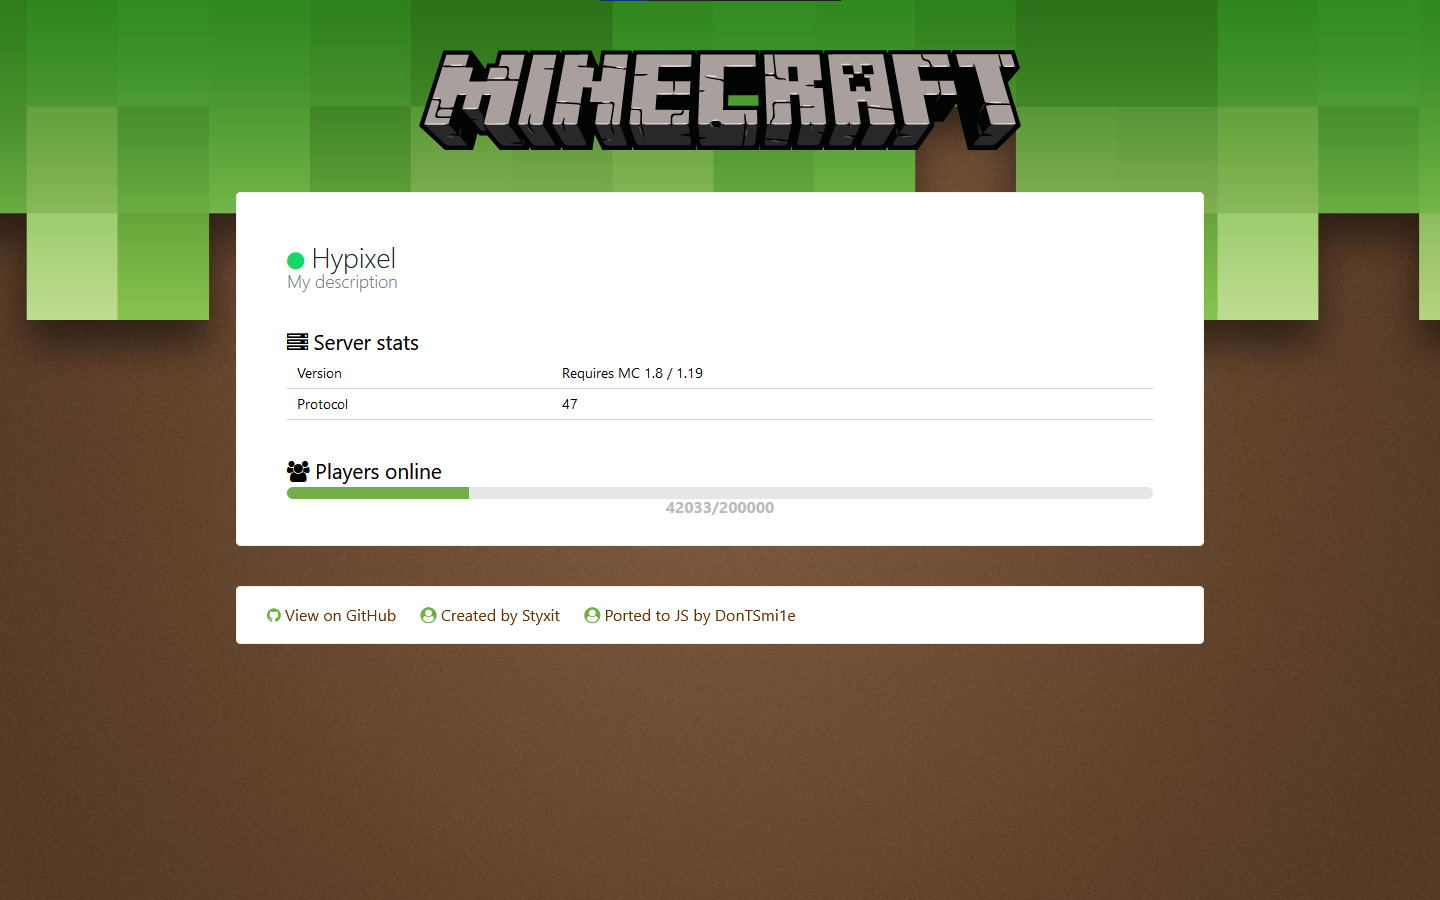
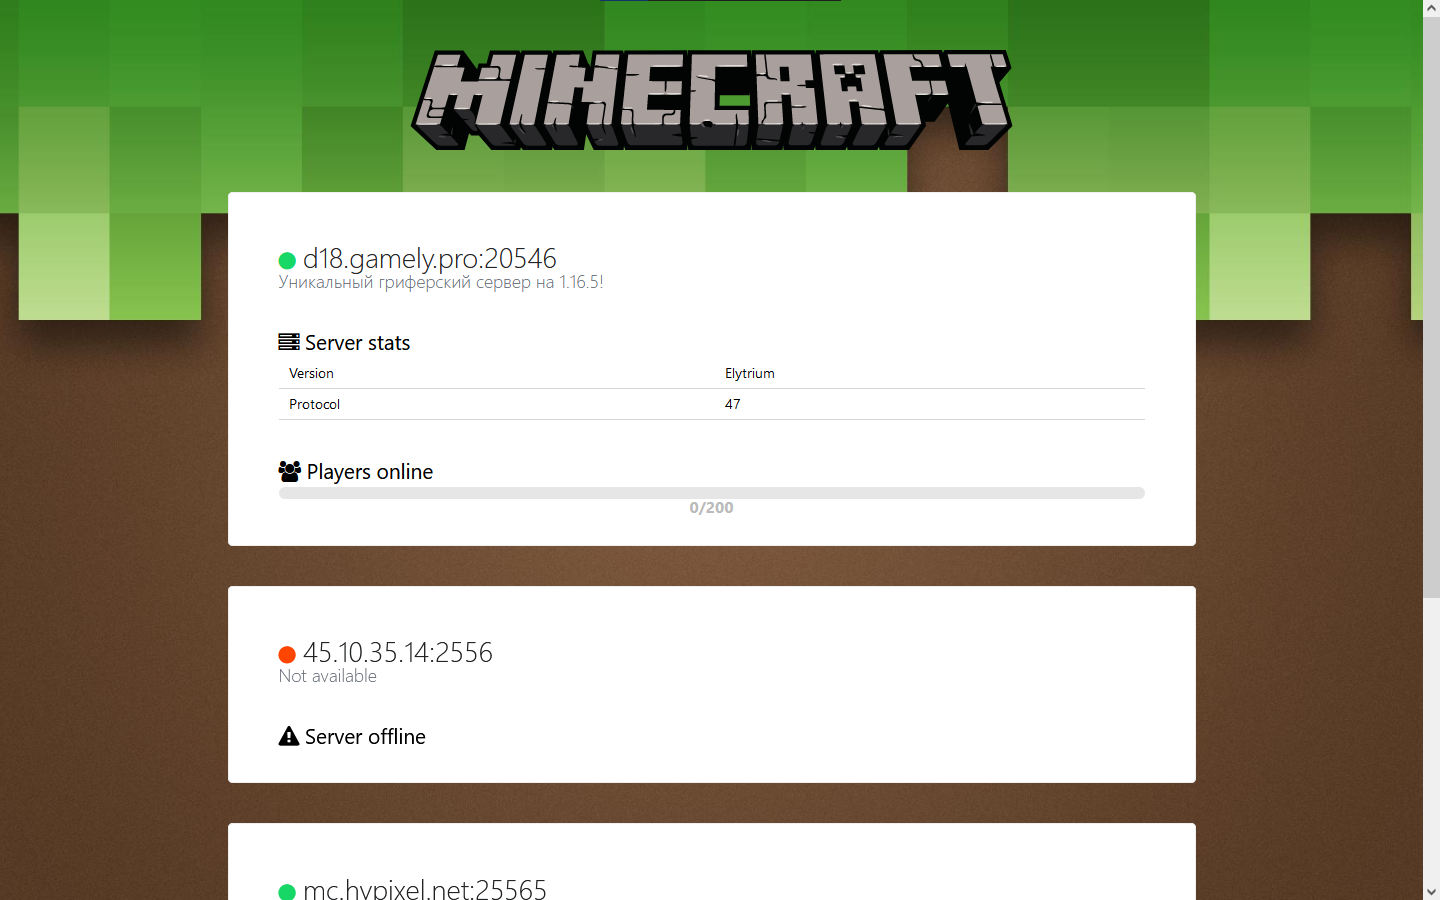
important update

diff --git a/fetch.js b/fetch.js
@@ -1,76 +1,84 @@
-function insertData(id, json, name, description)
+function insertData(id, json)
 {
 	if (arguments[1]['online'] == true) {
 		const template_online = `
-	<div class="status-header">
-		<h1 class="title"><i class="status online fa fa-circle"></i> ${arguments[2]}</h1>
-		<h2 class="subtitle">${arguments[3]}</h2>
-	</div>
-
-	<div class="status-list">
-		<div class="label"><i class="fa fa-server"></i> Server stats</div>
-		<table class="table">
-			<tbody>
-			<tr>
-				<td>Version</td>
-				<td>${arguments[1]['version']['name_clean']}</td>
-			</tr>
-			<tr>
-				<td>Protocol</td>
-				<td>${arguments[1]['version']['protocol']}</td>
-			</tr>
-			</tbody>
-		</table>
-	</div>
-	<div class="status-list">
-		<div class="players">
-			<div class="label"><i class="fa fa-users"></i> Players online</div>
-			<div class="bar">
-				<progress class="progress" value="${arguments[1]['players']['online']}" max="${arguments[1]['players']['max']}"><?= $this->e($players['percentage']) ?>%</progress>
-			</div>
-			<div class="amount has-text-centered">${arguments[1]['players']['online']}/${arguments[1]['players']['max']}</div>
+		<div class="status-header">
+			<h1 class="title"><i class="status online fa fa-circle"></i> ${arguments[1]['host']}:${arguments[1]['port']}</h1>
+			<h2 class="subtitle">${arguments[1]['motd']['clean']}</h2>
 		</div>
-	</div>
-	`;
-		document.getElementById(arguments[0]).innerHTML = template_online;
+
+		<div class="status-list">
+			<div class="label"><i class="fa fa-server"></i> Server stats</div>
+			<table class="table">
+				<tbody>
+				<tr>
+					<td>Version</td>
+					<td>${arguments[1]['version']['name_clean']}</td>
+				</tr>
+				<tr>
+					<td>Protocol</td>
+					<td>${arguments[1]['version']['protocol']}</td>
+				</tr>
+				</tbody>
+			</table>
+		</div>
+		<div class="status-list">
+			<div class="players">
+				<div class="label"><i class="fa fa-users"></i> Players online</div>
+				<div class="bar">
+					<progress class="progress" value="${arguments[1]['players']['online']}" max="${arguments[1]['players']['max']}"><?= $this->e($players['percentage']) ?>%</progress>
+				</div>
+				<div class="amount has-text-centered">${arguments[1]['players']['online']}/${arguments[1]['players']['max']}</div>
+			</div>
+		</div>
+		`;
+		var template = document.createElement('div');
+		template.className = "section";
+		template.innerHTML = template_online;
+		document.getElementById(arguments[0]).append(template);
 	} else {
 		const template_offline = `
-	<div class="status-header">
-		<h1 class="title"><i class="status offline fa fa-circle"></i> ${arguments[2]}</h1>
-		<h2 class="subtitle">Not available</h2>
-	</div>
+		<div class="status-header">
+			<h1 class="title"><i class="status offline fa fa-circle"></i> ${arguments[1]['host']}:${arguments[1]['port']}</h1>
+			<h2 class="subtitle">Not available</h2>
+		</div>
 
-	<div class="status-list">
-		<div class="label"><i class="fa fa-warning"></i> Server offline</div>
-		<table class="table">
-			<tbody>
-			<tr>
-				<td>Version</td>
-				<td>Not available</td>
-			</tr>
-			<tr>
-				<td>Protocol</td>
-				<td>Not available</td>
-			</tr>
-			</tbody>
-		</table>
-	</div>
-	`;
-		document.getElementById(arguments[0]).innerHTML = template_offline;
+		<div class="status-list">
+			<div class="label"><i class="fa fa-warning"></i> Server offline</div>
+		</div>
+		`;
+		var template = document.createElement('div');
+		template.className = "section";
+		template.innerHTML = template_offline;
+		document.getElementById(arguments[0]).append(template);
 	}
 }
 async function fetchData(ip)
 {
-	let response = await fetch('https://api.mcstatus.io/v2/status/java/' + arguments[0]);
-	let data = await response.json();
+	var response = await fetch('https://api.mcstatus.io/v2/status/java/' + arguments[0]);
+	var data = await response.json();
 	data = JSON.stringify(data);
 	data = JSON.parse(data);
 	return data;
 }
+async function fetchAddress()
+{
+	var response = await fetch('server.txt');
+	var response_text = response.text();
+	console.debug(response_text);
+	return response_text;
+}
 async function fetchServers()
 {
-	// your server setup
-	let server_id = await fetchData('mc.hypixel.net');
-	insertData('server_id', server_id, "Hypixel", "My description");
+	var txt_servers = await fetchAddress();
+	var servers = txt_servers.split(",");
+	console.debug(servers);
+
+	for (let i = 0; i < servers.length; i++) {
+		console.debug(servers[i]);
+
+		var server_json = await fetchData(servers[i]);
+		insertData('content', server_json);
+	}
 }
 fetchServers();

diff --git a/index.html b/index.html
@@ -11,21 +11,18 @@
 		<script type="text/javascript" src="fetch.js"></script>
 	</head>
 	<body>
-		<div class="container">
+		<div class="container" id="content">
 			<div class="logo">
 				<img src="assets/minecraft-logo.svg"/>
 			</div>
-			<div class="section"> <!-- STATUS SECTION -->
-				<div id="server_id"></div> <!-- thats your server -->
-			</div>
-			<div class="section">
-				<div class="status-footer">
-					<p>
-						<a href="https://github.com/DonTSmi1e/MinecraftStatusPage"><i class="fa fa-github"></i> View on GitHub</a>
-						<a href="https://styxit.com"><i class="fa fa-user-circle"></i> Created by Styxit</a>
-						<a href="https://github.com/DonTSmi1e"><i class="fa fa-user-circle"></i> Ported to JS by DonTSmi1e</a>
-					</p>
-				</div>
+		</div>
+		<div class="container section">
+			<div class="status-footer">
+				<p>
+					<a href="https://github.com/DonTSmi1e/MinecraftStatusPage"><i class="fa fa-github"></i> View on GitHub</a>
+					<a href="https://styxit.com"><i class="fa fa-user-circle"></i> Created by Styxit</a>
+					<a href="https://github.com/DonTSmi1e"><i class="fa fa-user-circle"></i> Ported to JS by DonTSmi1e</a>
+				</p>
 			</div>
 		</div>
 	</body>
